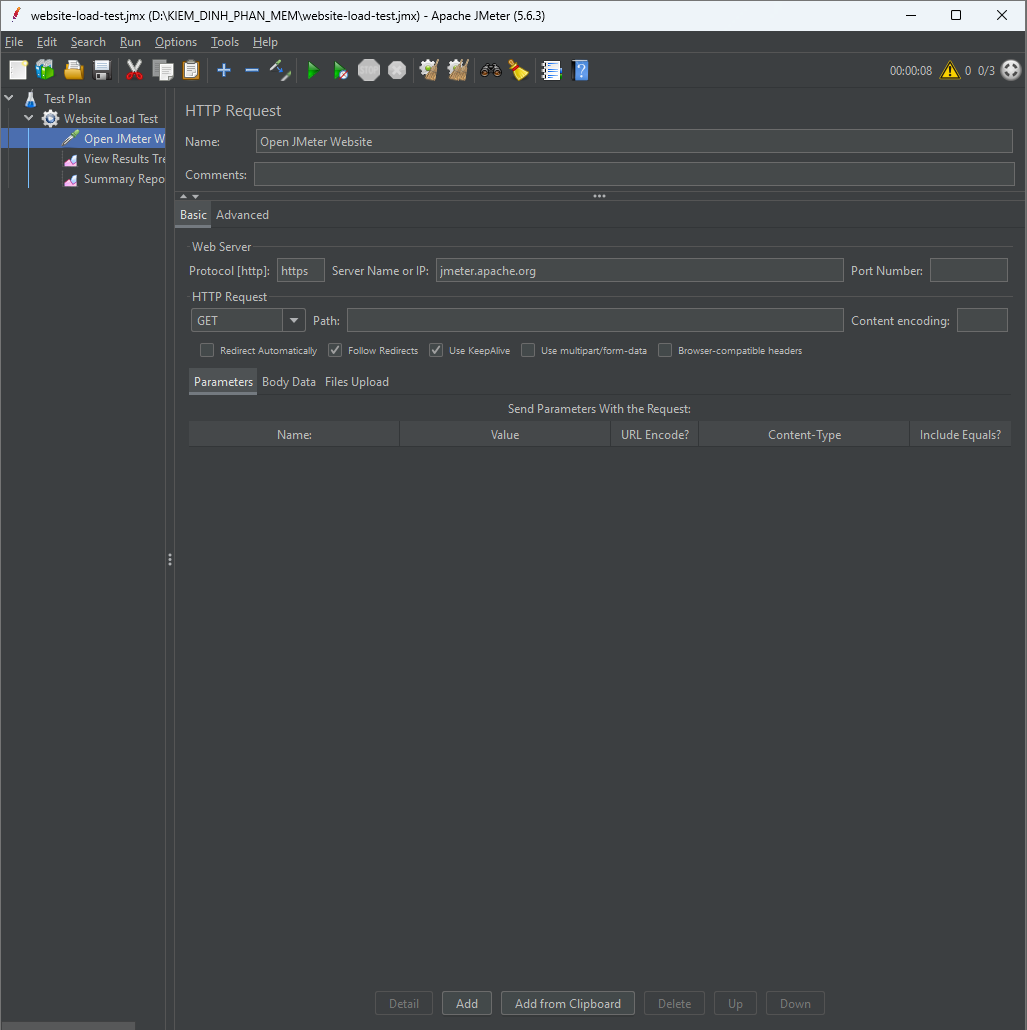
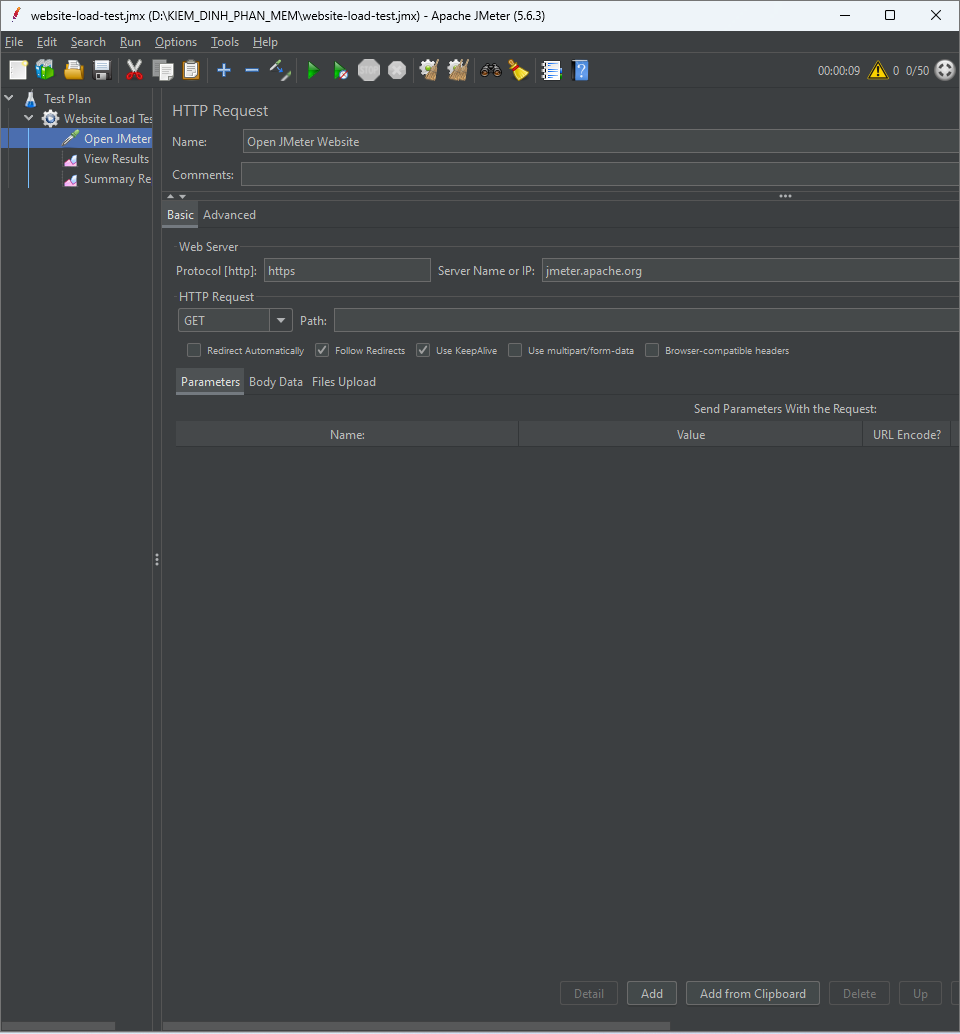
Update README for 50-user JMeter test

diff --git a/README.md b/README.md
@@ -1,69 +1,65 @@
-# BÁO CÁO THỰC HÀNH KIỂM THỬ PHẦN MỀM BẰNG APACHE JMETER
+# BÁO CÁO THỰC HÀNH KIỂM THỬ HIỆU NĂNG BẰNG APACHE JMETER
 
 ## 1. Giới thiệu
 
-Apache JMeter là công cụ mã nguồn mở được sử dụng để kiểm thử hiệu năng của ứng dụng, máy chủ và dịch vụ web. Công cụ cho phép mô phỏng nhiều người dùng gửi yêu cầu đến hệ thống và thu thập các chỉ số như thời gian phản hồi, số lượng yêu cầu và tỷ lệ lỗi.
+Apache JMeter là công cụ mã nguồn mở được sử dụng để kiểm thử hiệu năng của website và ứng dụng. Công cụ cho phép mô phỏng nhiều người dùng truy cập hệ thống, gửi yêu cầu và thu thập các thông số như thời gian phản hồi, số lượng yêu cầu và tỷ lệ lỗi.
 
-Trong bài thực hành này, em sử dụng Apache JMeter phiên bản 5.6.3 để xây dựng và thực hiện một kịch bản kiểm thử HTTP đơn giản.
+Trong bài thực hành này, em sử dụng Apache JMeter để kiểm thử hiệu năng website Apache JMeter tại địa chỉ https://jmeter.apache.org/.
 
 ## 2. Mục tiêu
 
 - Làm quen với giao diện và cách sử dụng Apache JMeter.
-- Tạo Test Plan và Thread Group.
-- Gửi yêu cầu HTTP đến một website.
-- Theo dõi kết quả bằng View Results Tree.
-- Tổng hợp và phân tích số liệu bằng Summary Report.
-- Lưu kịch bản kiểm thử và báo cáo lên GitHub.
+- Xây dựng Test Plan để gửi yêu cầu HTTP đến website.
+- Mô phỏng 50 người dùng ảo truy cập website.
+- Thu thập và phân tích kết quả kiểm thử.
+- Sử dụng Git và GitHub để lưu trữ bài thực hành, báo cáo và ảnh minh chứng.
 
 ## 3. Công cụ sử dụng
 
-| Công cụ | Phiên bản hoặc thông tin |
+| Công cụ | Phiên bản hoặc mục đích |
 |---|---|
 | Apache JMeter | 5.6.3 |
-| Java | JDK 21 |
-| Visual Studio Code | Môi trường chỉnh sửa README |
+| Java JDK | 21 |
+| Visual Studio Code | Chỉnh sửa README và quản lý dự án |
 | Git | Quản lý phiên bản |
-| GitHub | Lưu trữ và nộp bài |
+| GitHub | Lưu trữ mã nguồn và báo cáo |
 
-## 4. Thiết lập kịch bản kiểm thử
-
-Website được sử dụng trong bài thực hành là trang chủ Apache JMeter: https://jmeter.apache.org/
+## 4. Cấu hình kiểm thử
 
 ### 4.1. Cấu hình Thread Group
 
-| Tham số | Giá trị |
-|---|---|
-| Name | Website Load Test |
-| Number of Threads (users) | 3 |
-| Ramp-up period | 3 giây |
+| Thông số | Giá trị |
+|---|---:|
+| Number of Threads (Users) | 50 |
+| Ramp-up Period | 10 giây |
 | Loop Count | 1 |
+| Số yêu cầu dự kiến | 50 |
 
-Kịch bản mô phỏng 3 người dùng, mỗi người gửi một yêu cầu trong một vòng lặp.
+Thread Group được cấu hình để mô phỏng 50 người dùng ảo. Thời gian Ramp-up là 10 giây, nghĩa là JMeter khởi tạo người dùng trong khoảng thời gian này. Mỗi người dùng thực hiện một vòng lặp.
 
 ### 4.2. Cấu hình HTTP Request
 
-| Tham số | Giá trị |
+| Thông số | Giá trị |
 |---|---|
-| Name | Open JMeter Website |
 | Protocol | HTTPS |
 | Server Name or IP | jmeter.apache.org |
 | Method | GET |
 | Path | / |
 
-HTTP Request được sử dụng để gửi yêu cầu GET đến trang chủ Apache JMeter.
+HTTP Request sử dụng phương thức GET để gửi yêu cầu truy cập trang chủ website.
 
-### 4.3. Các thành phần theo dõi kết quả
+### 4.3. Các Listener sử dụng
 
-- **View Results Tree:** Hiển thị chi tiết từng yêu cầu, mã phản hồi và nội dung phản hồi.
-- **Summary Report:** Tổng hợp số lượng yêu cầu, thời gian phản hồi, tỷ lệ lỗi và thông lượng.
+- **View Results Tree:** Quan sát kết quả từng yêu cầu và thông tin phản hồi từ máy chủ.
+- **Summary Report:** Tổng hợp số lượng mẫu, thời gian phản hồi, tỷ lệ lỗi và thông lượng.
 
-## 5. Hình ảnh minh họa
+## 5. Hình ảnh minh chứng
 
-### 5.1. Cấu hình Test Plan
+### 5.1. Tổng quan Test Plan
 
-![Cấu hình Test Plan](screenshots/01-test-plan.png)
+![Tổng quan Test Plan](screenshots/01-test-plan.png)
 
-### 5.2. Cấu hình Thread Group
+### 5.2. Cấu hình Thread Group với 50 người dùng
 
 ![Cấu hình Thread Group](screenshots/02-thread-group.png)
 
@@ -71,46 +67,51 @@ HTTP Request được sử dụng để gửi yêu cầu GET đến trang chủ 
 
 ![Cấu hình HTTP Request](screenshots/03-http-request.png)
 
-### 5.4. Kết quả trong View Results Tree
+### 5.4. Kết quả từng yêu cầu
 
-![Kết quả kiểm thử](screenshots/04-test-results.png)
+![Kết quả View Results Tree](screenshots/04-test-results.png)
 
-### 5.5. Báo cáo Summary Report
+### 5.5. Báo cáo tổng hợp Summary Report
 
-![Báo cáo tổng hợp](screenshots/05-summary-report.png)
+![Kết quả Summary Report](screenshots/05-summary-report.png)
 
 ## 6. Kết quả kiểm thử
 
-Sau khi thực hiện kịch bản kiểm thử với 3 người dùng mô phỏng, thu được các kết quả sau:
+Các chỉ số dưới đây cần được cập nhật theo Summary Report thực tế sau lần chạy 50 người dùng.
 
 | Chỉ số | Kết quả |
-|---|---:|
-| Samples | 3 |
-| Average | 7504,67 ms |
-| Min | 6527 ms |
-| Max | 8462 ms |
-| Error % | 0% |
-| Throughput | Cần đối chiếu với Summary Report |
+|---|---|
+| Tổng số yêu cầu (Samples) | Điền số liệu thực tế |
+| Thời gian phản hồi trung bình (Average) | Điền số liệu thực tế (ms) |
+| Thời gian phản hồi nhỏ nhất (Min) | Điền số liệu thực tế (ms) |
+| Thời gian phản hồi lớn nhất (Max) | Điền số liệu thực tế (ms) |
+| Tỷ lệ lỗi (Error %) | Điền số liệu thực tế |
+| Thông lượng (Throughput) | Điền số liệu thực tế |
 
-### 6.1. Phân tích kết quả
+### 6.1. Nhận xét kết quả
 
-Cả 3 yêu cầu đều nhận được mã phản hồi HTTP `200 OK`. Các kết quả được cung cấp không ghi nhận lỗi, tương ứng với tỷ lệ lỗi 0%.
+Sau khi thực hiện kiểm thử, em sử dụng Summary Report để đánh giá khả năng phản hồi của website.
 
-Thời gian phản hồi nhỏ nhất là 6527 ms, lớn nhất là 8462 ms và trung bình khoảng 7504,67 ms. Thời gian phản hồi giữa các yêu cầu có sự khác biệt.
+- **Samples:** Cho biết tổng số yêu cầu đã được thực hiện.
+- **Average:** Cho biết thời gian phản hồi trung bình của các yêu cầu.
+- **Min và Max:** Thể hiện thời gian phản hồi nhỏ nhất và lớn nhất.
+- **Error %:** Cho biết tỷ lệ yêu cầu xảy ra lỗi.
+- **Throughput:** Thể hiện số lượng yêu cầu được xử lý trong một đơn vị thời gian.
 
-Thông lượng cần được ghi nhận trực tiếp từ cột Throughput trong Summary Report của JMeter. Kết quả trên chỉ phản ánh lần kiểm thử nhỏ đã thực hiện, không đủ để kết luận về khả năng chịu tải tối đa của website.
+Thông qua các chỉ số trên, có thể đánh giá sơ bộ khả năng phản hồi của website trong lần kiểm thử. Tuy nhiên, kết quả chỉ phản ánh điều kiện thử nghiệm tại thời điểm chạy và không đủ để kết luận về giới hạn tải tối đa của hệ thống.
 
 ## 7. Kết luận
 
-Qua bài thực hành, em đã biết cách tạo một kịch bản kiểm thử HTTP bằng Apache JMeter, cấu hình số lượng người dùng mô phỏng và theo dõi kết quả thông qua View Results Tree và Summary Report.
+Qua bài thực hành, em đã làm quen với Apache JMeter, biết cách tạo Test Plan, cấu hình Thread Group, gửi yêu cầu HTTP và sử dụng các Listener để thu thập kết quả.
 
-Bài thực hành giúp em hiểu thêm cách thu thập, đọc và phân tích các chỉ số cơ bản trong kiểm thử hiệu năng phần mềm.
+Việc mô phỏng 50 người dùng giúp em hiểu rõ hơn cách kiểm thử hiệu năng và cách phân tích những chỉ số cơ bản như thời gian phản hồi, tỷ lệ lỗi và thông lượng. Báo cáo cùng hình ảnh minh chứng được lưu trữ trên GitHub để thuận tiện cho việc kiểm tra và đánh giá.
 
 ## 8. Tài liệu tham khảo
 
-1. Apache JMeter Official Website: https://jmeter.apache.org/
-2. Apache JMeter User Manual: https://jmeter.apache.org/usermanual/
+- Trang chủ Apache JMeter: https://jmeter.apache.org/
+- Tài liệu hướng dẫn Apache JMeter: https://jmeter.apache.org/usermanual/
+- Kho lưu trữ bài thực hành: https://github.com/hongtuoi0208/jmeter-performance-testing
 
-## 9. Repository
+## 9. Repository GitHub
 
-GitHub: https://github.com/hongtuoi0208/jmeter-performance-testing
+Link GitHub: https://github.com/hongtuoi0208/jmeter-performance-testing
